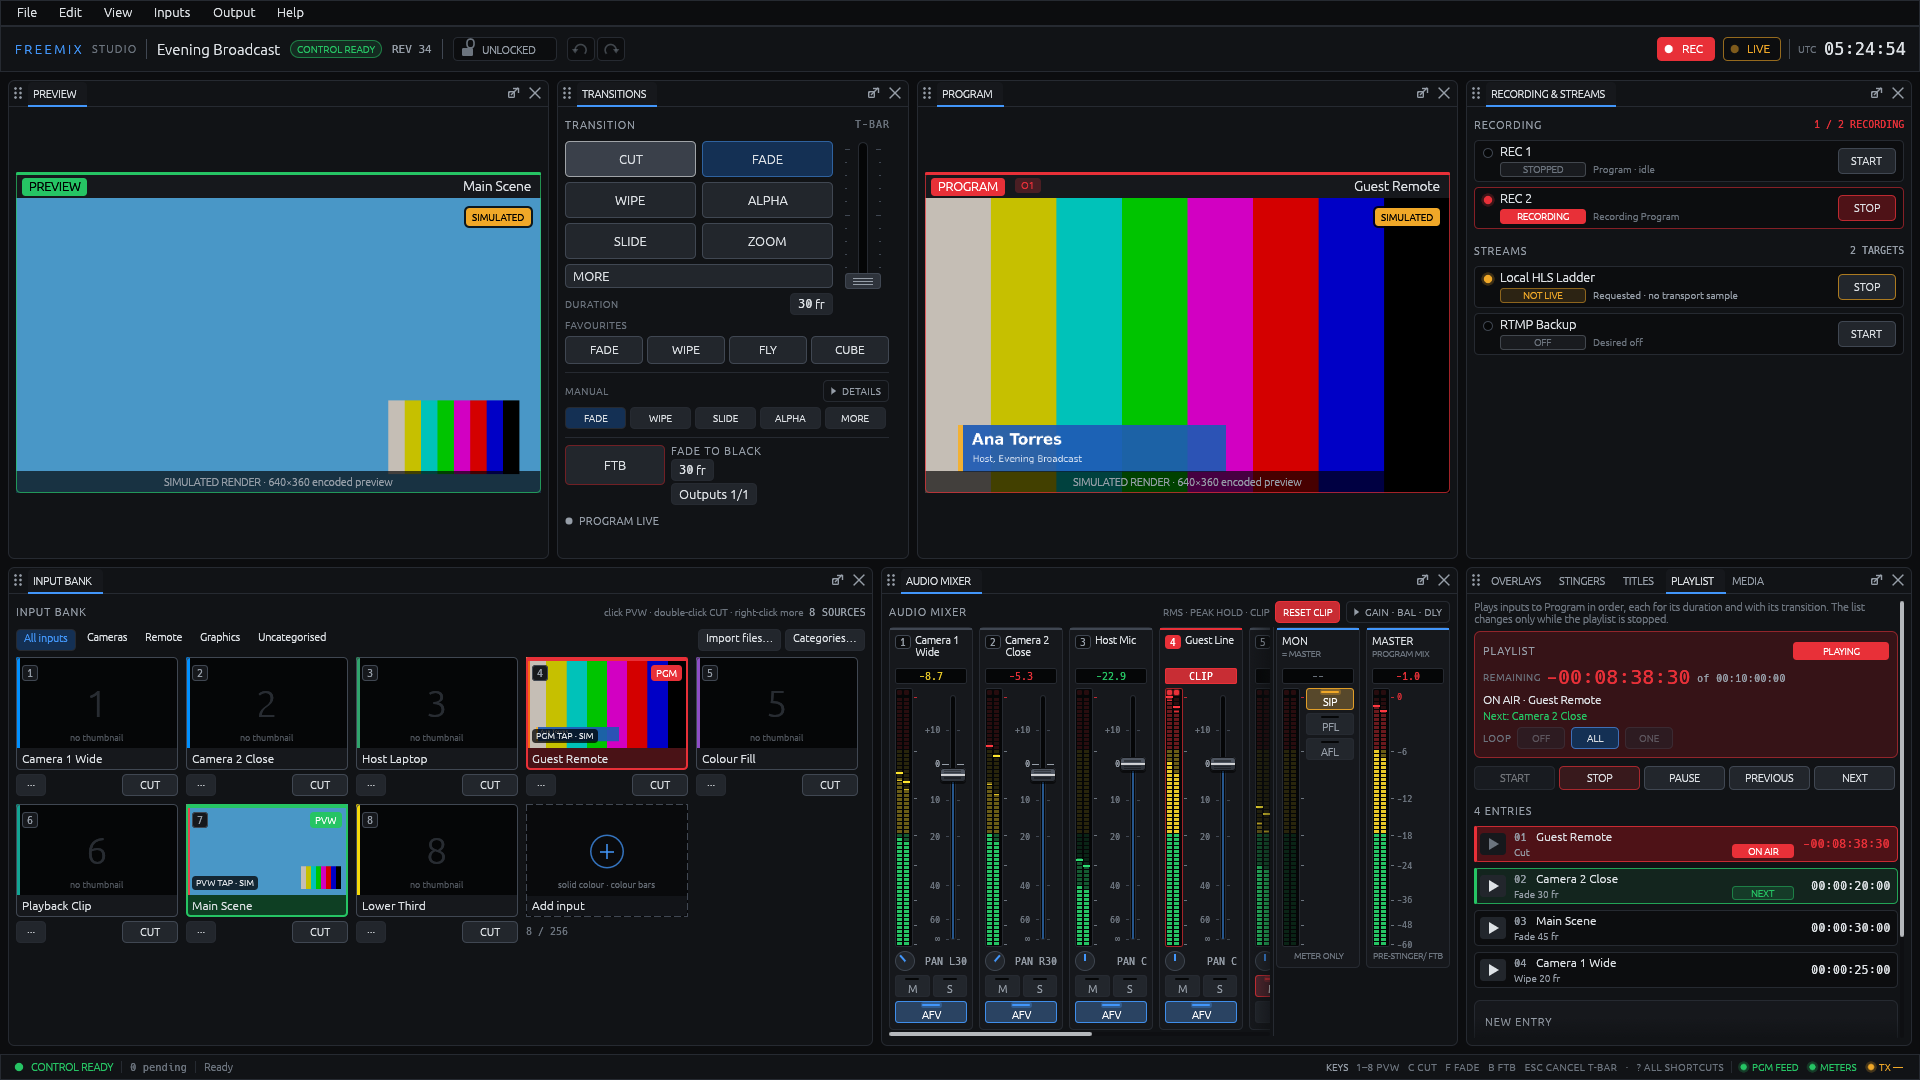
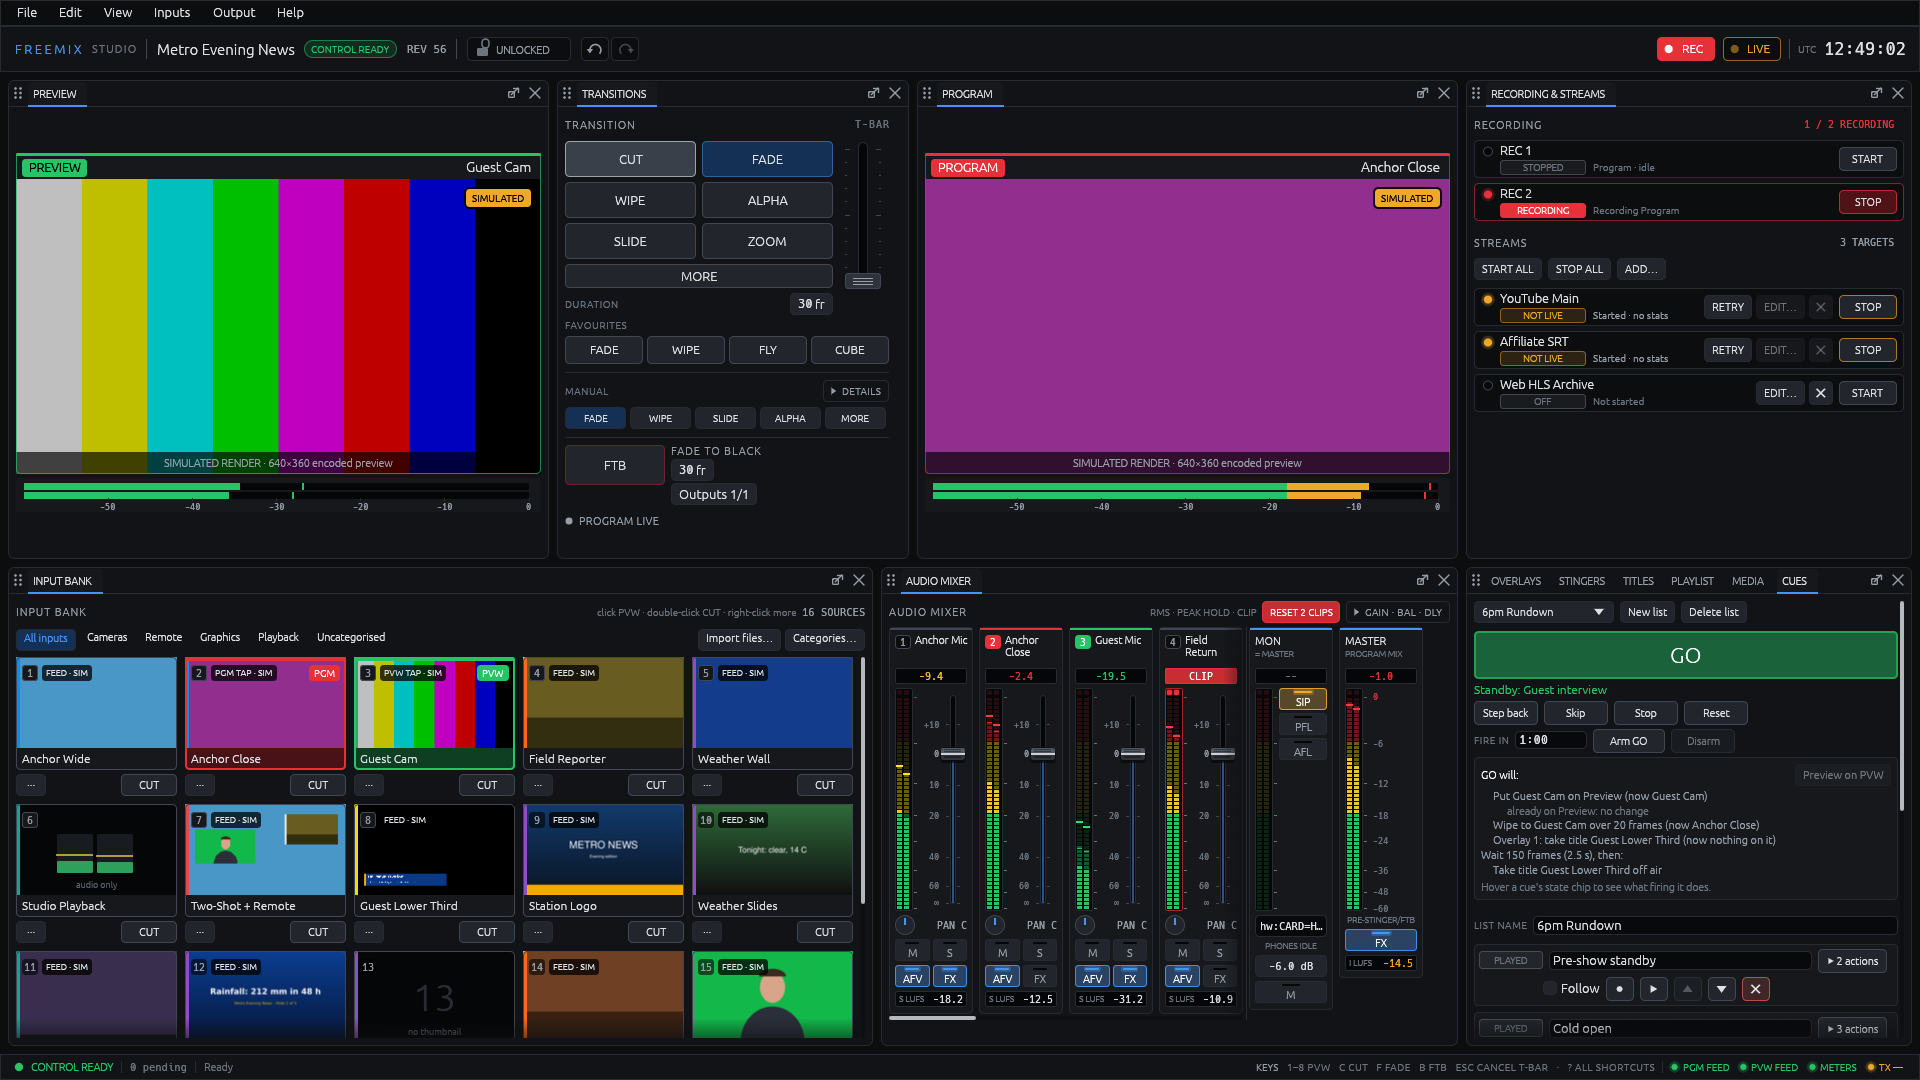
Sync the site with FreeMix 64afb29
Adds the Oct 22 Recent progress entry (strip and Master FX with loudness
metering, media lists, stills, documents and screen capture, keying
refinements, the paired web gateway and browser title editor, shortcuts and
daemon health), refreshes the phase 2-5 "in the tree today" notes, and swaps
the home page console screenshot for the latest round 9 workspace capture.

Claude-Session: https://claude.ai/code/session_01Utxr41QJC8Rxh6zCgxjbJC

diff --git a/src/data/roadmap.ts b/src/data/roadmap.ts
@@ -44,28 +44,28 @@ export const PHASES: Phase[] = [
     n: 2, title: 'GPU playback switcher', short: 'GPU switcher', weeks: '10–14 weeks', status: 'building',
     summary: 'The first real pixels: wgpu compositing, file playback, the native studio shell and a program recorder.',
     goals: ['wgpu context, resource pools and render graph', 'Image, colour, bars and file playback', 'Transforms, crop, opacity, layers and colour conversion', 'Native studio with Preview, Program and transitions', 'Master bus, meters, fullscreen output and a fault-tolerant recorder'],
-    now: 'Native compositing, media playback and the egui studio console run today; the daemon renders Program on the GPU.',
+    now: 'Native compositing, the egui studio console and media playback run today, including gapless media lists, stills, slideshows and PDF or slide decks; the daemon renders Program on the GPU.',
     exit: 'A one-hour Basic Show passes on every Tier-1 OS.',
   },
   {
     n: 3, title: 'Live capture and professional core', short: 'Pro core', weeks: '12–16 weeks', status: 'building',
     summary: 'Cameras, audio devices and screens, plus the scene, overlay, multiview and colour tools a show depends on.',
     goals: ['OS camera, audio and screen capture with hot-plug and fallback', 'Drift-corrected audio with native EQ, gate, compressor and limiter', 'Scenes with ten layers, keys, masks and effects', 'Full transition family, eight overlays and stingers', 'Multiviews, tally, scopes, colour grading and controllers'],
-    now: 'Linux V4L2 and macOS camera capture, scene layers, chroma keys, stingers, grading and scopes are in the tree.',
+    now: 'Camera and screen capture with audio, drift-corrected live sources, strip and Master FX with loudness meters, chroma and key/fill keys with light wrap and garbage mattes, stingers, grading and scopes are in the tree.',
     exit: 'Profile A (HD) certified without network contribution.',
   },
   {
     n: 4, title: 'Output, stream and headless reliability', short: 'Outputs', weeks: '10–14 weeks', status: 'building',
     summary: 'Streaming, recording and a headless engine you can run as a service and control from a browser.',
     goals: ['RTMP/RTMPS and SRT with five independent destinations', 'Multi-bitrate output and a LAN HLS feed', 'Two recorders, ISO capture and timecode manifests', 'Service mode, health, readiness and support bundles', 'Browser control with roles, pairing and live previews'],
-    now: 'Recorders, stream targets, the web operator page and phone tally run against the daemon.',
+    now: 'Recorders, stream targets, a paired TLS web gateway for the operator page and phone tally, and daemon CPU, GPU and alert reporting run against the daemon.',
     exit: 'Headless show survives encoder, network and client failures.',
   },
   {
     n: 5, title: 'Graphics, data and automation', short: 'Graphics & automation', weeks: '12–16 weeks', status: 'building',
     summary: 'Titles, data-driven graphics, browser sources, playlists, scripts and every way to trigger them.',
     goals: ['Title scenes with shaping, animation and tickers', 'Title designer and live field editor', 'Isolated browser input with custom CSS', 'Data sources mapped to typed title fields', 'Triggers, macros, sandboxed Wasm scripts, PTZ and telestrator'],
-    now: 'The keyframe title animator, data sources, cue lists with timed GO and a preview of each cue, and sandboxed scripts are in the studio.',
+    now: 'The keyframe title animator, a browser title editor, data sources, cue lists with timed GO and previews, user shortcuts with chords and OSC, and sandboxed scripts are in the studio.',
     exit: 'Automation scenario resumes from the last revision with no duplicate actions.',
   },
   {

diff --git a/src/data/updates.ts b/src/data/updates.ts
@@ -10,6 +10,18 @@ export interface Update {
 
 export const UPDATES: Update[] = [
   {
+    date: '2026-10-22',
+    range: 'afe5b41..64afb29',
+    title: 'Pro audio, new input types and a browser title editor',
+    items: [
+      'Every audio strip and the Master bus now have their own FX chain: EQ with a curve view, gate, compressor, expander, limiter and a sample-accurate delay, plus EBU R128 loudness and true-peak meters. Live cameras and capture devices are drift-corrected to the show clock, so sound and picture stay in sync over long shows.',
+      'New inputs: media lists that play gaplessly with shuffle, loop and their own transitions, still images and slideshows, PDFs and slide decks with presenter notes, and screen or window capture with its audio, including Wayland on Linux.',
+      'Keying gains key/fill and alpha keys, light wrap, polygon garbage mattes, a perceptual chroma key and one-click auto key from the input’s own picture.',
+      'Phones and tablets now pair with the show over a TLS web gateway on the venue network. From the browser, a graphics operator can edit titles at /titles, and the operator page can adjust strip FX, reset loudness and fire shortcuts.',
+      'Project shortcuts can use chords, mouse buttons and OSC, target whatever is on Preview or Program, and export as .fmshortcuts files. Studio’s health strip shows the engine’s CPU, GPU and alerts.',
+    ],
+  },
+  {
     date: '2026-10-19',
     range: '1c841b0..afe5b41',
     title: 'See what a cue does before you press GO',
